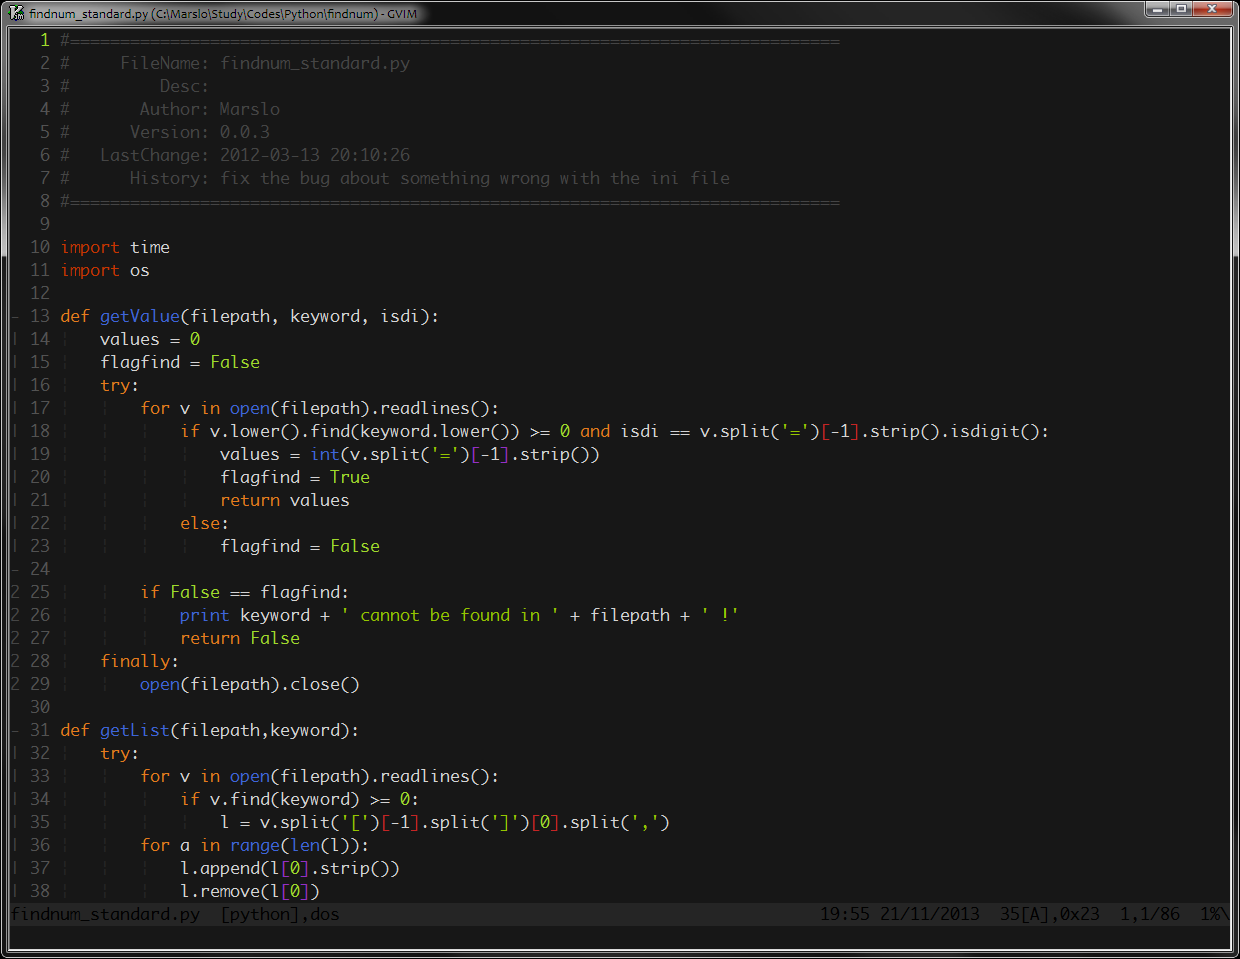
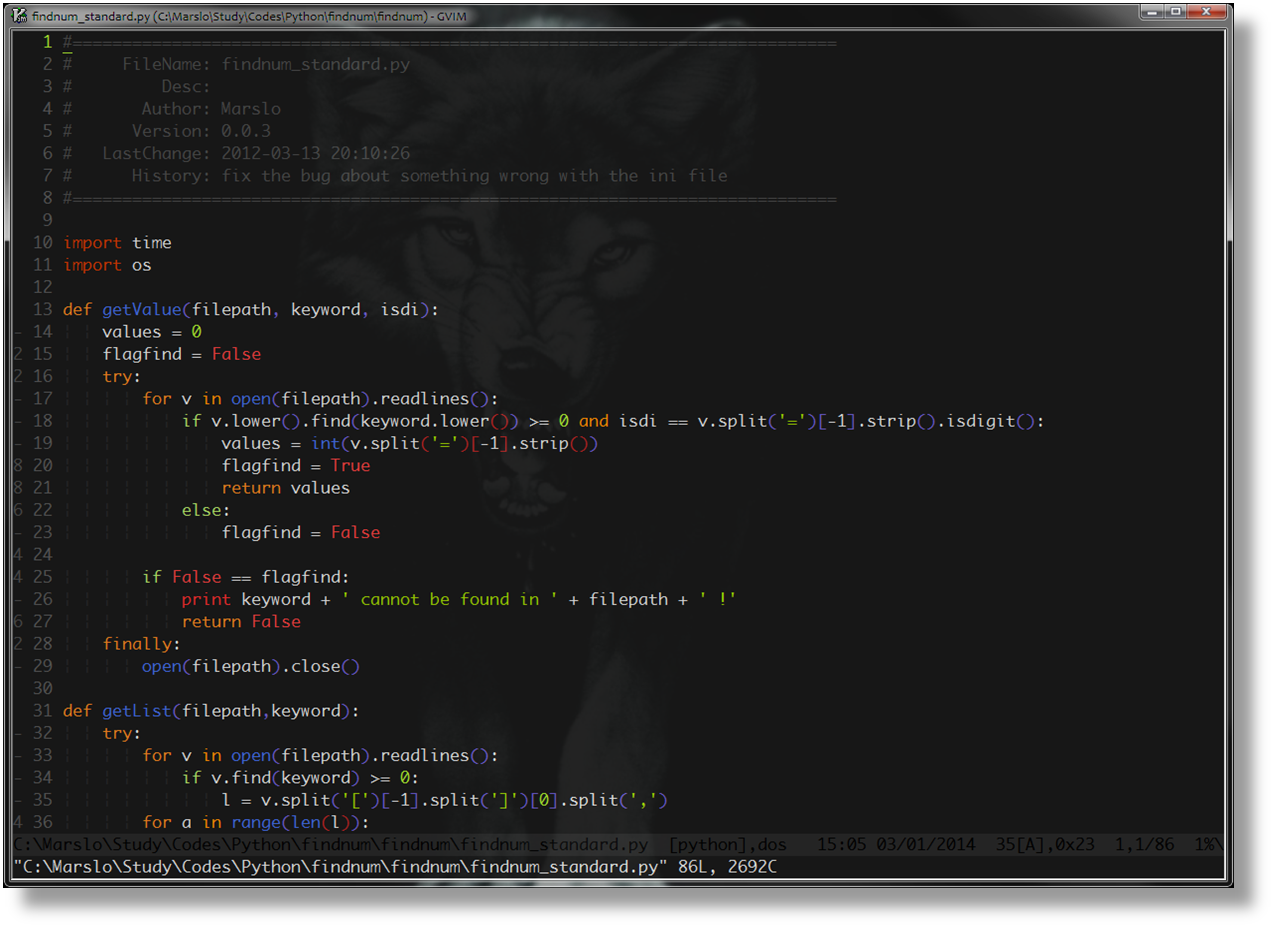
Update Screenshots and Readme

Changed region(s): [[0.0, 0.0, 1.0, 1.0], [0.4597, 0.6243, 0.5516, 0.6555]]

diff --git a/README.md b/README.md
@@ -28,6 +28,8 @@ MyVimConfig
 ![Screenshot_Ubuntu](https://github.com/Marslo/VimConfig/blob/master/Screenshots/Screenshots_Ubuntu.png?raw=true)
 ### Windows
 ![Screenshot_Windows](https://github.com/Marslo/VimConfig/blob/master/Screenshots/screenshot_gvim.png?raw=true)
+### PuTTy
+![Screenshot_PuTTy](https://github.com/Marslo/VimConfig/blob/master/Screenshots/screenshot_PuTTy.png?raw=true)
 
 ## Compile VIM/GVIM by source code on Linux(Ubuntu)
 ### 1. Prepare environment:
